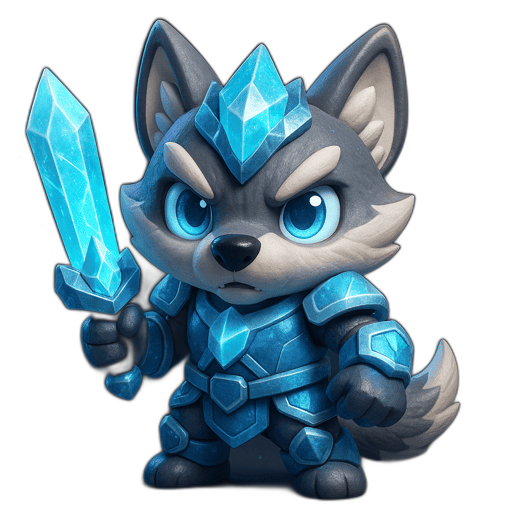
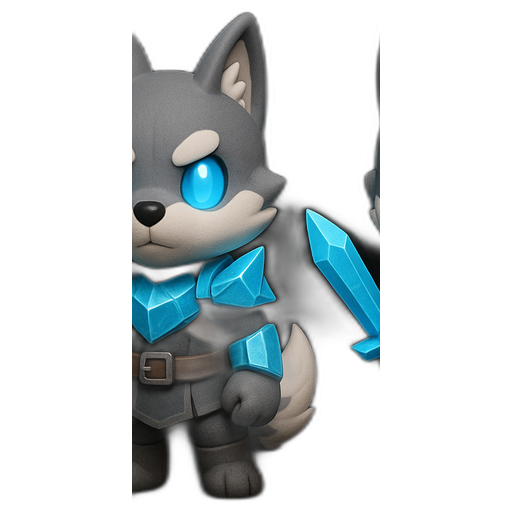
Sprite sheet animations: 4-frame characters for monsters and heroes
Generated 10 sprite sheets (4 poses each) via gpt-image-1:
- 4 monsters: idle, breathe in, breathe out, hit reaction
- 6 heroes: idle, ready stance, power pose, attack lunge

New SpriteFrame widget (lib/widgets/sprite_sheet.dart):
- Displays single frame from horizontal strip using ClipRect + Align
- SpriteSheets helper class maps game state to frame selection
- Monster frame driven by breath controller + hit recoil
- Hero frame driven by idle controller + attack/motion state

Processing pipeline (tmp/process_sprite_sheets.py):
- AI-generated 1792x1024 sheets → rembg background removal →
  auto-crop → center on 512x512 canvas → pack 4-frame strips

Battle screen integration:
- _buildBigMonster uses SpriteFrame with breath-driven frame cycling
- _buildHero uses SpriteFrame with attack/motion-driven frames
- Falls back to static Image.asset if sprite sheet not found
- Base images updated to match sprite sheet frame 0 for consistency

diff --git a/lib/widgets/sprite_sheet.dart b/lib/widgets/sprite_sheet.dart
@@ -1,0 +1,102 @@
+import 'package:flutter/material.dart';
+
+/// Displays a single frame from a horizontal sprite strip.
+///
+/// The sprite strip is a horizontal PNG containing [frameCount] frames
+/// side by side, each [frameSize] x [frameSize] pixels.
+class SpriteFrame extends StatelessWidget {
+  final String assetPath;
+  final int frameCount;
+  final int currentFrame;
+  final double width;
+  final double height;
+
+  const SpriteFrame({
+    super.key,
+    required this.assetPath,
+    required this.frameCount,
+    required this.currentFrame,
+    required this.width,
+    required this.height,
+  });
+
+  @override
+  Widget build(BuildContext context) {
+    final clampedFrame = currentFrame.clamp(0, frameCount - 1);
+    // Use FittedBox + Alignment to show only the current frame
+    return SizedBox(
+      width: width,
+      height: height,
+      child: ClipRect(
+        child: Align(
+          alignment: Alignment(
+            // Map frame index to -1.0 ... 1.0 range
+            frameCount <= 1
+                ? 0.0
+                : -1.0 + (2.0 * clampedFrame / (frameCount - 1)),
+            0.0,
+          ),
+          widthFactor: 1.0 / frameCount,
+          child: Image.asset(
+            assetPath,
+            fit: BoxFit.fitHeight,
+            height: height,
+          ),
+        ),
+      ),
+    );
+  }
+}
+
+/// Sprite sheet paths for monsters and heroes.
+///
+/// Each sprite strip has 4 frames:
+/// - Monsters: [0] idle, [1] breathe in, [2] breathe out, [3] hit reaction
+/// - Heroes: [0] idle, [1] ready stance, [2] power pose, [3] attack lunge
+class SpriteSheets {
+  static const int frameCount = 4;
+
+  // Monster sprite strips (indexed same as _monsterImages)
+  static const monsterSheets = [
+    'assets/images/sprites/monster_purple_sheet.png',
+    'assets/images/sprites/monster_green_sheet.png',
+    'assets/images/sprites/monster_orange_sheet.png',
+    'assets/images/sprites/monster_red_sheet.png',
+  ];
+
+  // Hero sprite strips (keyed by hero ID)
+  static const heroSheets = {
+    'shadow': 'assets/images/sprites/hero_shadow_sheet.png',
+    'blaze': 'assets/images/sprites/hero_blaze_sheet.png',
+    'bolt': 'assets/images/sprites/hero_bolt_sheet.png',
+    'leaf': 'assets/images/sprites/hero_leaf_sheet.png',
+    'frost': 'assets/images/sprites/hero_frost_sheet.png',
+    'nova': 'assets/images/sprites/hero_nova_sheet.png',
+  };
+
+  /// Get monster frame based on breath animation and hit state.
+  ///
+  /// - hitRecoil > 0.5 → frame 3 (hit reaction)
+  /// - breathT < 0.33 → frame 0 (idle/neutral)
+  /// - breathT < 0.67 → frame 1 (breathe in)
+  /// - breathT >= 0.67 → frame 2 (breathe out)
+  static int getMonsterFrame(double breathT, double hitRecoil) {
+    if (hitRecoil > 0.5) return 3; // Hit reaction
+    if (breathT < 0.33) return 0; // Idle
+    if (breathT < 0.67) return 1; // Breathe in
+    return 2; // Breathe out
+  }
+
+  /// Get hero frame based on idle animation and attack state.
+  ///
+  /// - isAttacking → frame 3 (attack lunge)
+  /// - motionGlow → frame 2 (power pose)
+  /// - idleT < 0.5 → frame 0 (idle)
+  /// - idleT >= 0.5 → frame 1 (ready stance)
+  static int getHeroFrame(double idleT, bool isAttacking, bool motionGlow) {
+    if (isAttacking) return 3; // Attack lunge
+    if (motionGlow) return 2; // Power pose (brushing detected)
+    if (idleT < 0.5) return 0; // Idle
+    return 1; // Ready stance
+  }
+}

diff --git a/lib/screens/brushing_screen.dart b/lib/screens/brushing_screen.dart
@@ -16,6 +16,7 @@ import '../widgets/mute_button.dart';
 import 'package:lottie/lottie.dart';
 import '../widgets/mouth_guide.dart';
 import '../services/analytics_service.dart';
+import '../widgets/sprite_sheet.dart';
 import 'victory_screen.dart';
 
 class BrushingScreen extends StatefulWidget {
@@ -2542,6 +2543,15 @@ class _BrushingScreenState extends State<BrushingScreen>
     final damageTintStrength = _monster.personality.tintStrength +
         (damageProgress > 0.5 ? (damageProgress - 0.5) * 0.2 : 0.0);
 
+    // Use sprite sheet for animated frames, fall back to static image
+    final monsterSpriteSheet = _monster.imageIndex < SpriteSheets.monsterSheets.length
+        ? SpriteSheets.monsterSheets[_monster.imageIndex]
+        : null;
+    final monsterFrame = SpriteSheets.getMonsterFrame(
+      _monsterBreathController.value,
+      _monster.hitRecoil,
+    );
+
     Widget monsterImage = ColorFiltered(
       colorFilter: _monster.hitRecoil > 0.93
           // Tier 1: White flash on hit — 1-2 frames only, not overused
@@ -2550,12 +2560,20 @@ class _BrushingScreenState extends State<BrushingScreen>
               damageTint.withValues(alpha: damageTintStrength.clamp(0.0, 0.35)),
               BlendMode.overlay,
             ),
-      child: Image.asset(
-        _monsterImages[_monster.imageIndex],
-        width: effectiveSize,
-        height: effectiveSize,
-        fit: BoxFit.contain,
-      ),
+      child: monsterSpriteSheet != null
+          ? SpriteFrame(
+              assetPath: monsterSpriteSheet,
+              frameCount: SpriteSheets.frameCount,
+              currentFrame: monsterFrame,
+              width: effectiveSize,
+              height: effectiveSize,
+            )
+          : Image.asset(
+              _monsterImages[_monster.imageIndex],
+              width: effectiveSize,
+              height: effectiveSize,
+              fit: BoxFit.contain,
+            ),
     );
 
     Widget monsterWidget = AnimatedBuilder(
@@ -2978,12 +2996,28 @@ class _BrushingScreenState extends State<BrushingScreen>
   // ==================== HERO ====================
 
   Widget _buildHero(double size) {
-    final avatar = Image.asset(
-      _hero.imagePath,
-      width: size,
-      height: size,
-      fit: BoxFit.contain,
+    // Use sprite sheet for animated hero frames
+    final heroSheet = SpriteSheets.heroSheets[_hero.id];
+    final heroFrame = SpriteSheets.getHeroFrame(
+      _heroIdleController.value,
+      _heroLunging,
+      _motionGlow,
     );
+
+    final avatar = heroSheet != null
+        ? SpriteFrame(
+            assetPath: heroSheet,
+            frameCount: SpriteSheets.frameCount,
+            currentFrame: heroFrame,
+            width: size,
+            height: size,
+          )
+        : Image.asset(
+            _hero.imagePath,
+            width: size,
+            height: size,
+            fit: BoxFit.contain,
+          );
 
     return AnimatedBuilder(
       animation: _heroIdleController,
